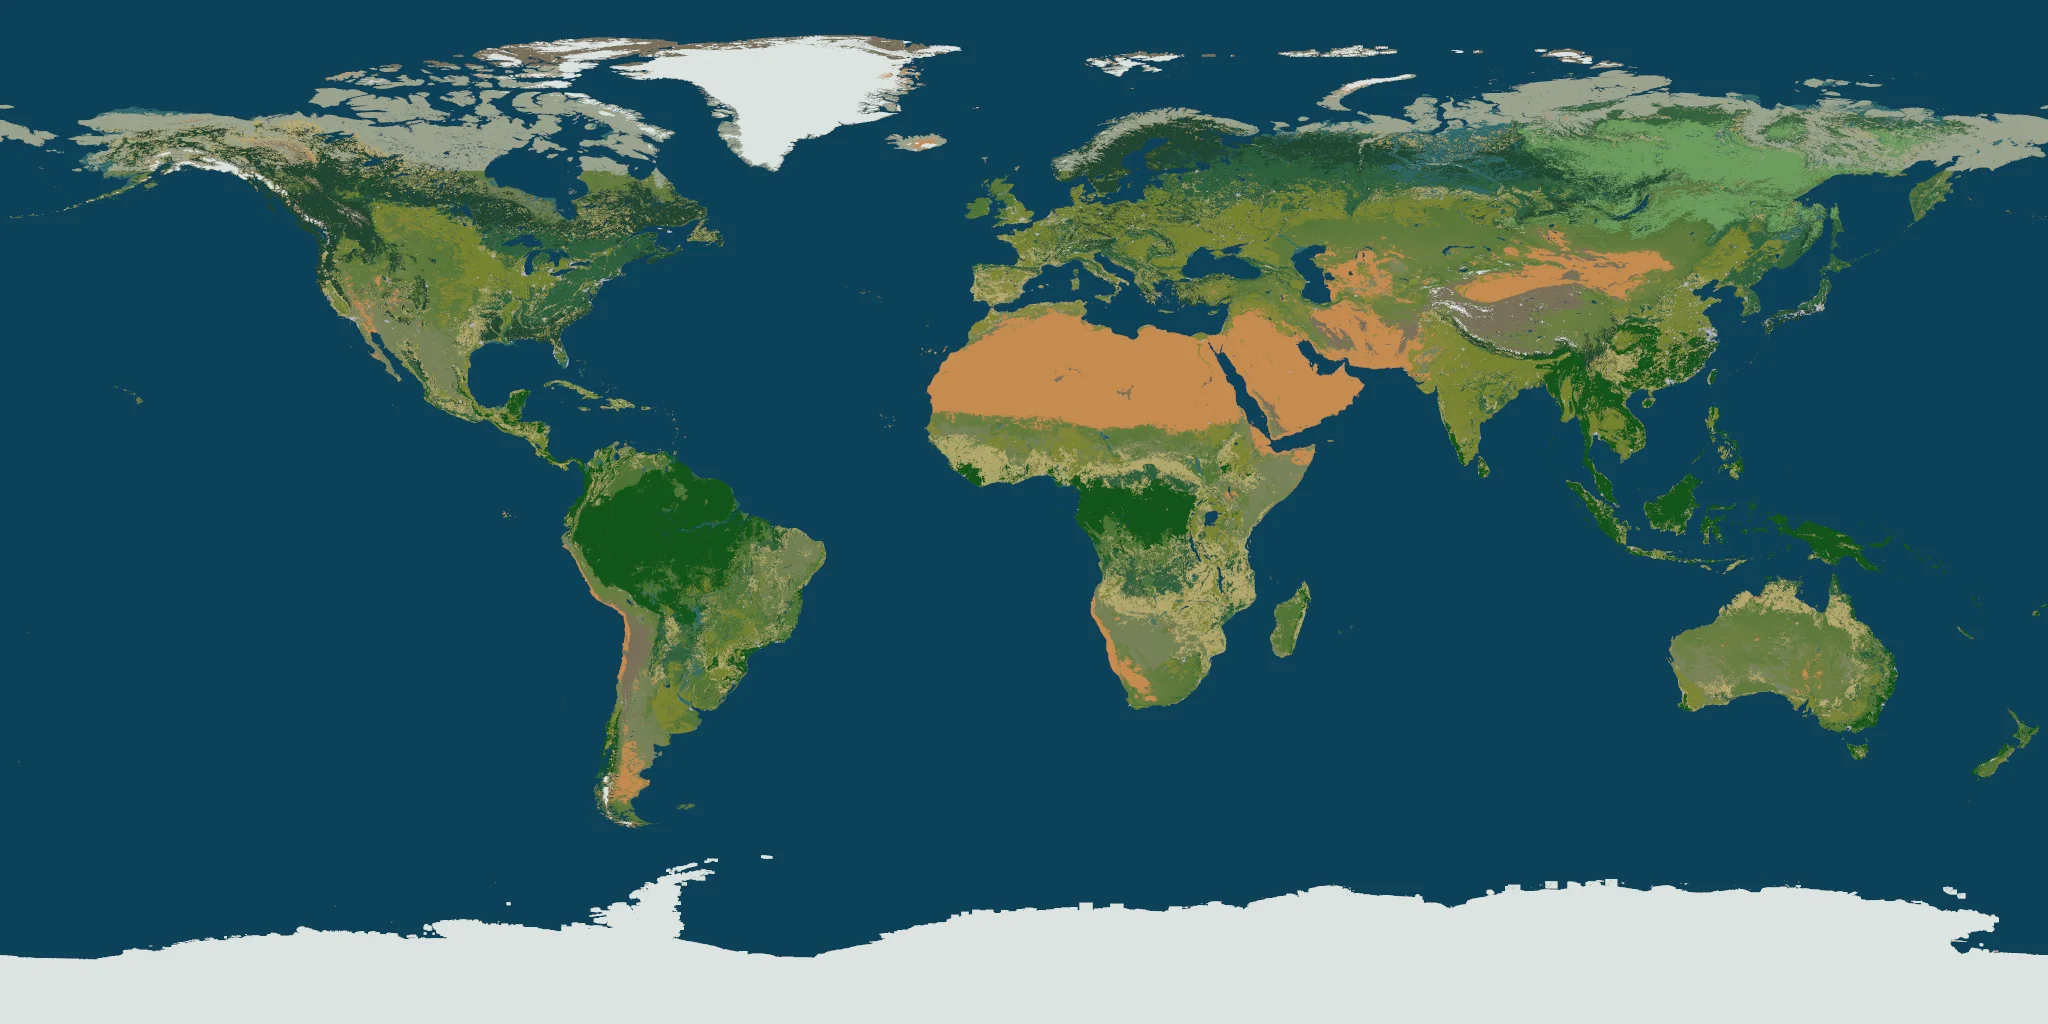
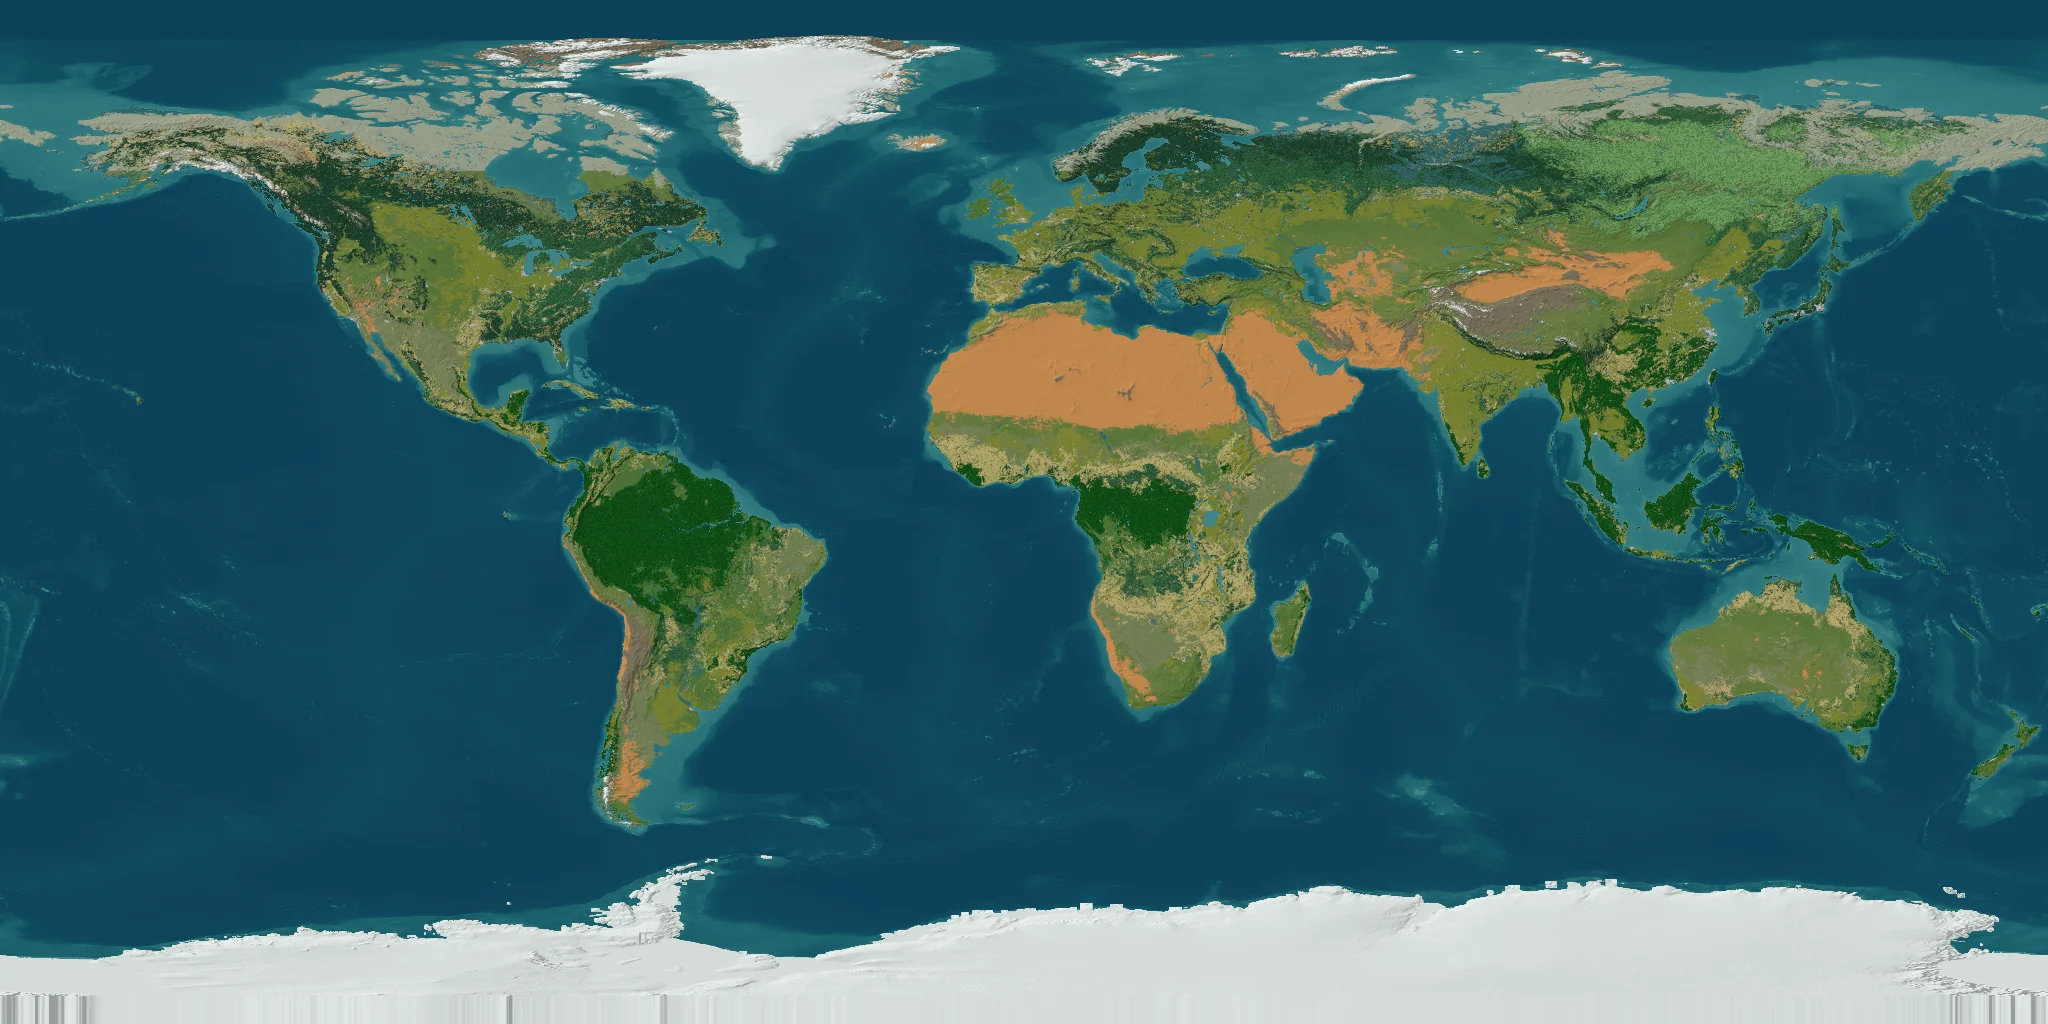
The hero planet stops looking like an atlas
New bake (relief, bathymetry, canopy) plus a shading pass tuned against a real
render of mode 'clay' rather than against taste.

The terminator is flatter - 0.74 + 0.26 rather than 0.62 + 0.38. The relief and
canopy now live in the texture, so this pass only has to keep the sphere from
reading flat; it no longer has to do the modelling as well, and a deep terminator
was burying the detail that was just added.

Saturation is pushed back up 12%. That is restoration, not seasoning: the bake
averages sixteen source texels per output texel in linear light, which is the
correct way to downsample and is also desaturating. This puts back roughly what
the averaging removed, and lands the sphere on the reference render instead of
on the flat texture.

The limb gets a second, broader and much fainter rim term over the sharp one. One
sharp rim reads as a lit edge; sharp over broad reads as air. Deliberately short
of the engine's full atmosphere halo - the hero mounts with the page's butter
field behind it and no backdrop, which is the design's call, and a big cyan glow
would fight it.

Texture 0.17 -> 0.23 MB.

diff --git a/src/scripts/hero-globe.js b/src/scripts/hero-globe.js
@@ -94,15 +94,31 @@ void main() {
   // the sun orbiting the Earth once every four minutes.
   float diffuse = max(dot(n, normalize(uLight)), 0.0);
 
-  // A wide terminator. A hard one looks like a rendering of a planet; this look
-  // is a painted globe, and the palette was authored to be read, not shaded off.
-  float light = 0.62 + 0.38 * smoothstep(-0.35, 0.85, diffuse);
+  // A wide, shallow terminator. A hard one looks like a photograph of a planet;
+  // this look is a PAINTED globe, and the palette was authored to be read, not
+  // shaded off. The relief and canopy are baked into the texture, so this pass
+  // only has to keep the sphere from reading flat — it does not have to do the
+  // modelling as well.
+  float light = 0.74 + 0.26 * smoothstep(-0.25, 0.90, diffuse);
 
-  // Rim: the atmosphere read, and the thing that separates the dark limb from a
-  // dark page. Keyed off the view direction, which is -Z in view space; the
-  // model matrix is rotation-only so the world-space normal is comparable.
+  // Toward the palette, not away from it. Baking averages colour in linear light
+  // across sixteen source texels per output texel, which is correct and also
+  // desaturating; this puts back roughly what the averaging took out, so the
+  // sphere matches the reference render rather than the flat texture.
+  vec3 lit = albedo * light;
+  float luma = dot(lit, vec3(0.2126, 0.7152, 0.0722));
+  lit = mix(vec3(luma), lit, 1.12);
+
+  // Rim: the atmosphere read, and what separates the dark limb from the page.
+  // Keyed off the view direction, which is -Z in view space; the model matrix is
+  // rotation-only, so the world-space normal is comparable.
   float rim = pow(1.0 - max(n.z, 0.0), 3.0);
-  vec3 color = albedo * light + vec3(0.34, 0.53, 0.62) * rim * 0.55;
+  // A second, wider and much fainter term. One sharp rim reads as a lit edge; a
+  // sharp one over a broad one reads as air.
+  float halo = pow(1.0 - max(n.z, 0.0), 1.6);
+  vec3 color = lit
+    + vec3(0.34, 0.53, 0.62) * rim * 0.55
+    + vec3(0.30, 0.48, 0.58) * halo * 0.16;
 
   gl_FragColor = vec4(color, 1.0);
 }`;
